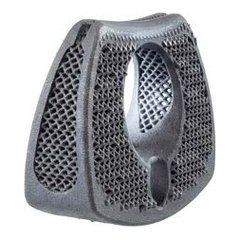
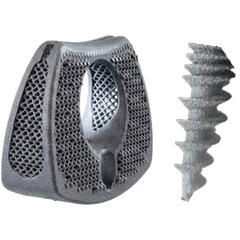
Kit room: Catenary tile shows a Catenary screw beside the cage
Claude-Session: https://claude.ai/code/session_01CtZM8oApCe7S9vBv9cjNwQ

diff --git a/CLAUDE.md b/CLAUDE.md
@@ -1680,7 +1680,9 @@ needs to be called Catenary ALIF"): renamed in `inventory.js` (old names kept
 as `aka`), `systems.js`, `systemSuggestions.js` and the kit room
 (`catenary-name-2026-11-21` → `renameSystem`); "catenary" now routes to E4 in
 `_distributors.js` (it did not — a Catenary kit line got no E4 notice). Its
-picture is the cage from E4's brochure; Firebird has the coloured screws and
+picture is the cage from E4's brochure with a Catenary screw beside it (cut from
+E4's Catenary ALIF Screw Ref Guide, Eland's email of 4 Jun 2026; Brent, 22 Nov
+2026); Firebird has the coloured screws and
 Ascot the plate with green screws (his files). Later the same day: Shoreline's picture became
 his single cage-and-plate shot, and Mariner's screw was cut out of its grey
 studio background (OpenCV GrabCut, run once here; the file is plain white).
